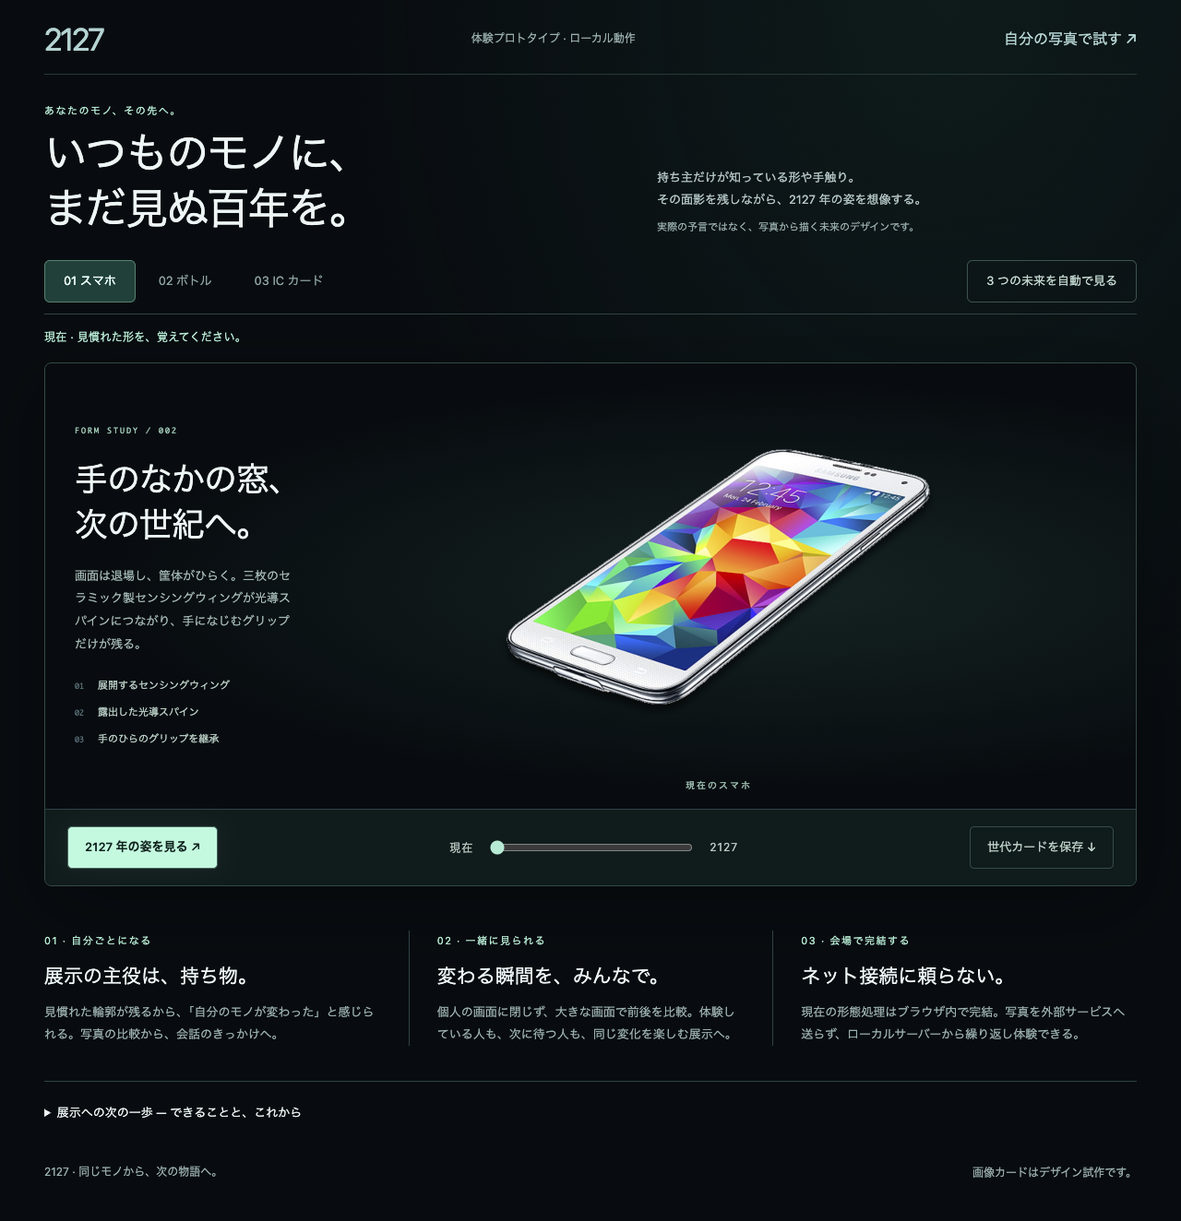
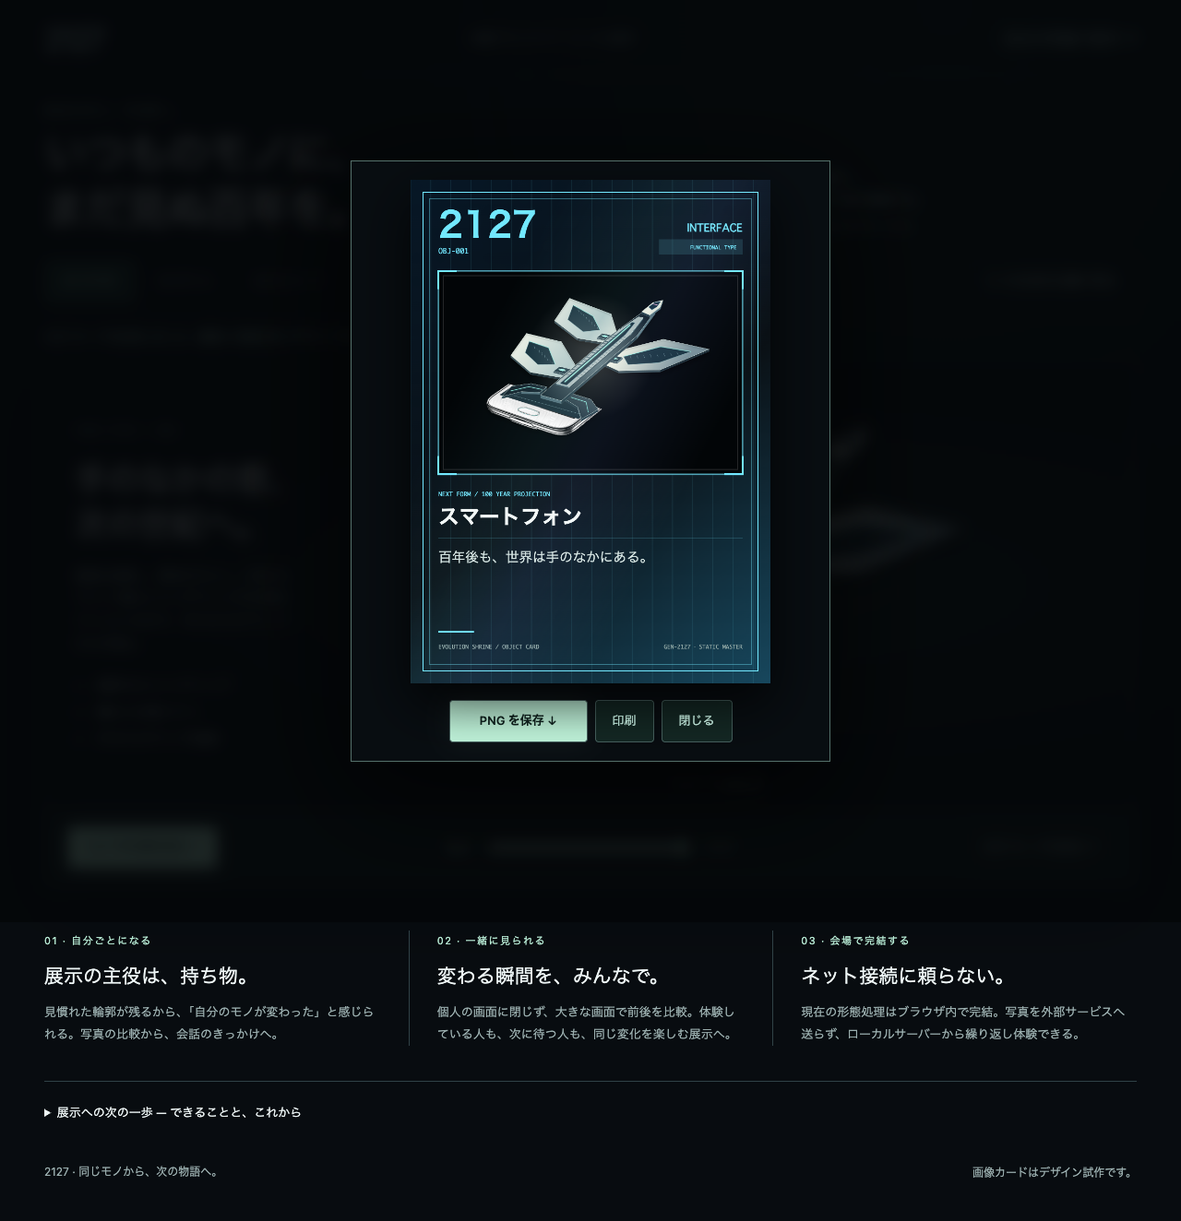
feat(card): add 2127 object card experience
- Add deterministic themed card preview, PNG export, and print layout.
- Respect reduced motion while preserving optional tilt and glare interactions.
- Extend browser coverage and update project documentation and preview evidence.

diff --git a/demo.html b/demo.html
@@ -12,13 +12,17 @@ nav{justify-content:flex-start;gap:4px;border-bottom:1px solid #304247;padding:0
 .stage{border-radius:8px;box-shadow:0 24px 80px #0004;border-color:#344a43}.bar{background:#101b1b;padding:18px 24px;gap:22px}.bar button{border-radius:5px}.primary{font-weight:600;box-shadow:0 0 28px #c4f9df10}#card{background:transparent;border-color:#354c45;color:#bdd0c7}.compare{flex:1;justify-content:center;gap:18px;color:#b7c7c0;letter-spacing:1px}.compare input{width:220px;height:24px;margin:0;cursor:ew-resize}.cards{gap:0;padding:48px 0 38px}.cards article{border-top:0;padding:0 30px;border-left:1px solid #304247}.cards article:first-child{padding-left:0;border-left:0}.cards article:last-child{padding-right:0}.cards h2{font-size:21px;margin:15px 0 10px}.cards p{font-size:13px;margin:0;line-height:1.9}details{font-size:13px}footer{display:flex;justify-content:space-between;gap:16px}
 @media(max-width:760px){main{padding:18px}header{gap:12px}.brand{font-size:30px}header>a:last-child{font-size:12px}.lead{grid-template-columns:1fr;gap:16px;padding:26px 0}.lead h1{font-size:36px}.lead p{font-size:12px}nav{gap:6px}nav button{padding:11px 13px;font-size:12px}#tour{margin:6px 0 0;width:100%;text-align:left}.status{line-height:1.7;min-height:40px}.bar{gap:16px;padding:18px}.compare{order:-1;flex-basis:100%}.bar button{flex:1;padding:13px 8px;font-size:11px}.cards{grid-template-columns:1fr;gap:24px;padding:32px 0}.cards article,.cards article:first-child,.cards article:last-child{border-left:0;border-top:1px solid #304247;padding:22px 0 0}.cards h2{font-size:21px}footer{flex-direction:column}}
 details[open] summary{margin-bottom:24px}.next-intro{max-width:820px;color:#b7c7c0}.roadmap{display:grid;grid-template-columns:repeat(2,minmax(0,1fr));gap:1px;margin:24px 0;background:#304247;border:1px solid #304247}.roadmap article{background:#0d1517;padding:24px}.roadmap h3{font-size:16px;font-weight:550;margin:8px 0 10px}.roadmap p,.roadmap li{color:#aabdbc;line-height:1.8}.roadmap ol,.roadmap ul{padding-left:20px;margin:10px 0}.flow{display:block;margin-top:12px;color:#d4fff1}.reference{display:flex;align-items:center;justify-content:space-between;gap:20px;padding:18px 20px;border:1px solid #304247;background:#101b1b}.reference p{margin:0;color:#aabdbc}.reference a{white-space:nowrap}@media(max-width:760px){.roadmap{grid-template-columns:1fr}.roadmap article{padding:20px}.reference{align-items:flex-start;flex-direction:column}.reference a{white-space:normal}}
+.sr-only{position:absolute;width:1px;height:1px;padding:0;margin:-1px;overflow:hidden;clip:rect(0,0,0,0);white-space:nowrap;border:0}dialog{width:min(94vw,520px);max-height:96vh;padding:20px;border:1px solid #55716b;background:#080d11;color:#edf5f5;box-shadow:0 32px 120px #000b}dialog::backdrop{background:#030608dd;backdrop-filter:blur(8px)}.card-shell{--rx:0deg;--ry:0deg;--gx:50%;--gy:35%;--foil-a:#9ff3e322;--foil-b:#c9a9ff33;position:relative;width:min(100%,390px);margin:auto;transform:perspective(1000px) rotateX(var(--rx)) rotateY(var(--ry));transform-style:preserve-3d;transition:transform .2s ease;touch-action:pan-y}.card-shell canvas{display:block;width:100%;height:auto;aspect-ratio:5/7;box-shadow:0 22px 55px #000b}.card-glare{position:absolute;inset:0;pointer-events:none;mix-blend-mode:screen;opacity:.34;background:radial-gradient(circle at var(--gx) var(--gy),#fff9 0,transparent 17%),linear-gradient(118deg,transparent 25%,var(--foil-a) 43%,var(--foil-b) 52%,transparent 70%)}.card-actions{display:flex;gap:8px;justify-content:center;margin-top:18px}.card-actions button{border-radius:4px}.card-actions .primary{min-width:150px}@media(max-width:520px){dialog{width:100vw;max-width:none;margin:auto 0 0;padding:14px}.card-actions{flex-wrap:wrap}.card-actions button{flex:1;padding:12px 8px}}
+@media(prefers-reduced-motion:reduce){.card-shell{transform:none!important;transition:none}.card-glare{opacity:.18;background:linear-gradient(118deg,transparent 30%,var(--foil-a) 50%,var(--foil-b) 58%,transparent 70%)}}
+@media print{@page{size:63mm 88mm;margin:0}body *{visibility:hidden!important}#card-preview,#card-preview *{visibility:visible!important}#card-preview{display:block;position:fixed;inset:0;width:63mm;height:88mm;max-height:none;margin:0;padding:0;border:0;background:#000;box-shadow:none}.card-shell{width:63mm;height:88mm;transform:none!important}.card-shell canvas{width:63mm;height:88mm;box-shadow:none}.card-glare,.card-actions{display:none!important}}
 </style>
 <main>
 <header><a class="brand" href="demo.html">2127</a><span class="small">体験プロトタイプ · ローカル動作</span><a href="studies.html?object=banana">自分の写真で試す ↗</a></header>
 <section class="lead"><div><span class="tag">あなたのモノ、その先へ。</span><h1>いつものモノに、<br>まだ見ぬ百年を。</h1></div><p>持ち主だけが知っている形や手触り。<br>その面影を残しながら、2127 年の姿を想像する。<br><span class="small">実際の予言ではなく、写真から描く未来のデザインです。</span></p></section>
 <nav aria-label="体験するモノ"><button data-scene="0" aria-pressed="true">01 スマホ</button><button data-scene="1" aria-pressed="false">02 ボトル</button><button data-scene="2" aria-pressed="false">03 IC カード</button><button id="tour">3 つの未来を自動で見る</button></nav>
 <p class="status" id="status" role="status">写真を準備しています…</p>
-<section class="stage" aria-label="未来の形態"><iframe id="scene" title="写真から描く 2127 形態"></iframe><div class="bar"><button id="reveal" class="primary" disabled>2127 年の姿を見る ↗</button><label class="compare">現在 <input id="compare" type="range" min="0" max="100" value="0" aria-label="現在と未来の比較" disabled> 2127</label><button id="card" disabled>世代カードを保存 ↓</button></div></section>
+<section class="stage" aria-label="未来の形態"><iframe id="scene" title="写真から描く 2127 形態"></iframe><div class="bar"><button id="reveal" class="primary" disabled>2127 年の姿を見る ↗</button><label class="compare">現在 <input id="compare" type="range" min="0" max="100" value="0" aria-label="現在と未来の比較" disabled> 2127</label><button id="card" disabled>2127 カードを見る ↗</button></div></section>
+<dialog id="card-preview" aria-labelledby="card-title" aria-describedby="card-summary"><h2 id="card-title" class="sr-only">2127 オブジェクトカード</h2><p id="card-summary" class="sr-only"></p><div class="card-shell"><canvas id="generation-card" width="750" height="1050"></canvas><div class="card-glare" aria-hidden="true"></div></div><div class="card-actions"><button id="card-save" class="primary">PNG を保存 ↓</button><button id="card-print">印刷</button><button id="card-close">閉じる</button></div></dialog>
 <section class="cards" aria-label="展示で生まれる体験">
 <article><span class="tag">01 · 自分ごとになる</span><h2>展示の主役は、持ち物。</h2><p>見慣れた輪郭が残るから、「自分のモノが変わった」と感じられる。写真の比較から、会話のきっかけへ。</p></article>
 <article><span class="tag">02 · 一緒に見られる</span><h2>変わる瞬間を、みんなで。</h2><p>個人の画面に閉じず、大きな画面で前後を比較。体験している人も、次に待つ人も、同じ変化を楽しむ展示へ。</p></article>
@@ -39,8 +43,18 @@ details[open] summary{margin-bottom:24px}.next-intro{max-width:820px;color:#b7c7
 <footer>2127 · 同じモノから、次の物語へ。 <span class="small">画像カードはデザイン試作です。</span></footer>
 </main>
 <script>
-const scenes=['phone.html','studies.html?object=bottle-b','studies.html?object=suica'];
-const frame=document.querySelector('#scene'), status=document.querySelector('#status'), compare=document.querySelector('#compare'), reveal=document.querySelector('#reveal'), card=document.querySelector('#card'), tour=document.querySelector('#tour');
+const scenes=[
+ {url:'phone.html',name:'スマートフォン',type:'INTERFACE',code:'OBJ-001'},
+ {url:'studies.html?object=bottle-b',name:'ステンレスボトル',type:'VESSEL',code:'OBJ-002'},
+ {url:'studies.html?object=suica',name:'IC カード',type:'ACCESS',code:'OBJ-003'}
+];
+const themes={
+ INTERFACE:{accent:'#72e8ff',deep:'#071726',soft:'#17475d',pattern:'grid',foilA:'#72e8ff33',foilB:'#7698ff44'},
+ VESSEL:{accent:'#9adfd6',deep:'#09191d',soft:'#31535a',pattern:'rings',foilA:'#9adfd633',foilB:'#f4d99544'},
+ ACCESS:{accent:'#9ce5b7',deep:'#071a13',soft:'#244f3a',pattern:'routes',foilA:'#9ce5b733',foilB:'#ffd36a44'},
+ UNKNOWN:{accent:'#b8c7ca',deep:'#111518',soft:'#344146',pattern:'measure',foilA:'#b8c7ca33',foilB:'#ffffff33'}
+};
+const frame=document.querySelector('#scene'), status=document.querySelector('#status'), compare=document.querySelector('#compare'), reveal=document.querySelector('#reveal'), card=document.querySelector('#card'), tour=document.querySelector('#tour'), preview=document.querySelector('#card-preview'), cardCanvas=document.querySelector('#generation-card'), shell=document.querySelector('.card-shell');
 let selected=0, revision=0, timer, touring=false, resize;
 function stop(){clearTimeout(timer);touring=false;tour.textContent='3 つの未来を自動で見る';}
 function setAmount(value){const el=frame.contentDocument.querySelector('#evolution');el.value=value;el.dispatchEvent(new frame.contentWindow.Event('input'));compare.value=value;}
@@ -48,12 +62,12 @@ function showFuture(){setAmount(100);frame.contentDocument.querySelector('#repla
 async function select(index){
  resize?.disconnect();selected=index;const version=++revision;clearTimeout(timer);reveal.disabled=compare.disabled=card.disabled=true;status.textContent='写真を準備しています…';
  document.querySelectorAll('[data-scene]').forEach(b=>b.setAttribute('aria-pressed',String(+b.dataset.scene===index)));
- frame.src=scenes[index];
+ frame.src=scenes[index].url;
  // ponytail: same-origin pages are the renderer; keep their controls and art as the single source of truth.
  for(let tries=0;tries<150;tries++){
   await new Promise(r=>setTimeout(r,100));if(version!==revision)return;
   const doc=frame.contentDocument;
-  if(!doc||!doc.location.href.endsWith(scenes[index])||!doc.querySelector('#evolution')||doc.querySelector('#evolution').disabled)continue;
+  if(!doc||!doc.location.href.endsWith(scenes[index].url)||!doc.querySelector('#evolution')||doc.querySelector('#evolution').disabled)continue;
   const style=doc.createElement('style');style.textContent='header,footer,.controls,.calibration,#checks{display:none!important}main{padding:12px 32px;max-width:none}.hero{min-height:400px;grid-template-columns:250px minmax(0,1fr);gap:28px}.hero figure{max-width:660px;width:100%;justify-self:center}body{min-height:0;background:radial-gradient(ellipse at 67% 50%,#20373188,transparent 65%)}h1{font-size:36px;line-height:1.35;letter-spacing:-1px}.intro{font-size:13px;color:#a4b8b5}.specs{margin-top:24px;color:#b9cdc4;gap:12px}.eyebrow{color:#9fc8b6;letter-spacing:2px}figcaption{font-size:10px;padding-bottom:8px;color:#98b7aa}@media(max-width:800px){main{padding:12px 20px}.hero{min-height:0;grid-template-columns:1fr;gap:0}.hero figure{margin:8px 0 0;grid-row:1}.copy{padding:0 0 18px}h1{font-size:26px;margin:12px 0}.intro{max-width:none;font-size:12px;margin:0}.specs{display:none}.eyebrow{font-size:9px}}';doc.head.append(style);
   resize=new ResizeObserver(()=>{frame.style.height=Math.ceil(doc.querySelector('.hero').getBoundingClientRect().height+24)+'px';});resize.observe(doc.querySelector('.hero'));
   setAmount(0);reveal.disabled=compare.disabled=card.disabled=false;status.textContent='現在 · 見慣れた形を、覚えてください。';
@@ -66,10 +80,27 @@ document.querySelectorAll('[data-scene]').forEach(b=>b.onclick=()=>{stop();selec
 reveal.onclick=()=>{stop();showFuture();};compare.oninput=()=>{stop();setAmount(compare.value);};
 tour.onclick=()=>{if(touring){stop();return;}document.querySelector('.stage').scrollIntoView({block:'start'});touring=true;tour.textContent='自動再生を止める';select(0);};
 document.addEventListener('visibilitychange',()=>{if(document.hidden)stop();});
-card.onclick=()=>{
- stop();setAmount(100);const doc=frame.contentDocument,c=document.createElement('canvas');c.width=1456;c.height=1260;const g=c.getContext('2d');g.fillStyle='#080c10';g.fillRect(0,0,c.width,c.height);g.fillStyle='#b7ead4';g.font='28px sans-serif';g.fillText('2127 — あなたのモノ、その先へ。',70,75);g.drawImage(doc.querySelector('#view'),0,120);g.font='32px sans-serif';g.fillText(doc.querySelector('.kept').textContent,70,1140);g.fillStyle='#9bafaf';g.font='20px sans-serif';g.fillText('写真から描く未来のデザイン · 2.5D コンセプト / 世代カード試作',70,1200);
- const a=document.createElement('a');a.download='2127-generation-'+(selected+1)+'.png';a.href=c.toDataURL();a.click();status.textContent='世代カードの画像を保存しました。実体プリンター接続は今後の予定です。';
-};
+function line(g,x,y,w,text,size=29,leading=39){g.font=`500 ${size}px sans-serif`;const words=[...text],lines=[];let row='';for(const ch of words){if(g.measureText(row+ch).width>w){lines.push(row);row=ch}else row+=ch;}if(row)lines.push(row);lines.slice(0,3).forEach((s,i)=>g.fillText(s,x,y+i*leading));}
+function pattern(g,theme){g.save();g.strokeStyle=theme.accent+'28';g.fillStyle=theme.accent+'44';g.lineWidth=1;
+ if(theme.pattern==='grid')for(let x=0;x<750;x+=42){g.beginPath();g.moveTo(x,0);g.lineTo(x,1050);g.stroke();}
+ if(theme.pattern==='rings')for(let r=90;r<660;r+=75){g.beginPath();g.arc(610,300,r,0,Math.PI*2);g.stroke();}
+ if(theme.pattern==='routes')for(let i=0;i<7;i++){const y=150+i*118;g.beginPath();g.moveTo(0,y);g.lineTo(160,y);g.lineTo(225,y+42);g.lineTo(750,y+42);g.stroke();g.beginPath();g.arc(225,y+42,4,0,7);g.fill();}
+ if(theme.pattern==='measure')for(let y=80;y<1000;y+=80){g.beginPath();g.moveTo(28,y);g.lineTo(52,y);g.stroke();}g.restore();}
+function frameMotif(g,theme){g.save();g.strokeStyle=theme.accent;g.fillStyle=theme.accent;g.lineWidth=4;
+ if(theme.pattern==='grid')for(const [x,y,sx,sy] of [[58,190,1,1],[692,190,-1,1],[58,614,1,-1],[692,614,-1,-1]]){g.beginPath();g.moveTo(x,y+sy*38);g.lineTo(x,y);g.lineTo(x+sx*38,y);g.stroke();}
+ if(theme.pattern==='rings')for(const [x,y] of [[82,214],[668,214],[82,590],[668,590]]){g.beginPath();g.arc(x,y,12,0,7);g.stroke();g.beginPath();g.arc(x,y,3,0,7);g.fill();}
+ if(theme.pattern==='routes'){g.beginPath();g.moveTo(58,226);g.lineTo(94,190);g.lineTo(132,190);g.moveTo(618,614);g.lineTo(656,614);g.lineTo(692,576);g.stroke();for(const [x,y] of [[94,190],[656,614]]){g.beginPath();g.arc(x,y,5,0,7);g.fill();}}
+ g.restore();}
+function renderGenerationCard(){const meta=scenes[selected],theme=themes[meta.type]||themes.UNKNOWN,doc=frame.contentDocument,art=doc.querySelector('#view'),kept=doc.querySelector('.kept').textContent.trim(),g=cardCanvas.getContext('2d');g.clearRect(0,0,750,1050);const bg=g.createLinearGradient(0,0,750,1050);bg.addColorStop(0,theme.deep);bg.addColorStop(.55,'#0a1015');bg.addColorStop(1,theme.soft);g.fillStyle=bg;g.fillRect(0,0,750,1050);pattern(g,theme);
+ g.strokeStyle=theme.accent;g.lineWidth=2;g.strokeRect(26,26,698,998);g.strokeStyle=theme.accent+'66';g.strokeRect(39,39,672,972);g.fillStyle=theme.accent;g.font='700 72px sans-serif';g.fillText('2127',58,120);g.font='500 18px monospace';g.fillText(meta.code,58,154);g.textAlign='right';g.font='600 22px monospace';g.fillText(meta.type,692,108);g.fillStyle=theme.accent+'22';g.fillRect(518,124,174,32);g.fillStyle=theme.accent;g.font='500 13px monospace';g.fillText('FUNCTIONAL TYPE',680,145);g.textAlign='left';
+ g.fillStyle='#020507';g.fillRect(58,190,634,424);g.drawImage(art,0,0,art.width,art.height,64,196,622,414);g.strokeStyle=theme.accent+'aa';g.lineWidth=3;g.strokeRect(58,190,634,424);g.strokeStyle='#ffffff44';g.lineWidth=1;g.strokeRect(68,200,614,404);frameMotif(g,theme);
+ g.fillStyle=theme.accent;g.font='500 15px monospace';g.fillText('NEXT FORM / 100 YEAR PROJECTION',58,660);g.fillStyle='#f2f7f6';g.font='600 43px sans-serif';g.fillText(meta.name,58,718);g.strokeStyle=theme.accent+'55';g.beginPath();g.moveTo(58,747);g.lineTo(692,747);g.stroke();g.fillStyle='#d5e4e1';line(g,58,797,625,kept,28,39);
+ g.fillStyle=theme.accent;g.fillRect(58,941,74,3);g.fillStyle='#93aaa7';g.font='500 14px monospace';g.fillText('EVOLUTION SHRINE / OBJECT CARD',58,978);g.textAlign='right';g.fillText('GEN-2127 · STATIC MASTER',692,978);g.textAlign='left';cardCanvas.dataset.theme=meta.type;shell.style.setProperty('--foil-a',theme.foilA);shell.style.setProperty('--foil-b',theme.foilB);document.querySelector('#card-summary').textContent=`${meta.name}、${meta.type}。${kept}`;return meta;}
+card.onclick=()=>{stop();setAmount(100);renderGenerationCard();preview.showModal();status.textContent='2127 カードを生成しました。画面と印刷は同じデザインです。';};
+document.querySelector('#card-save').onclick=()=>{const meta=scenes[selected],a=document.createElement('a');a.download=`2127-${meta.code.toLowerCase()}.png`;a.href=cardCanvas.toDataURL();a.click();status.textContent='2127 カードの PNG を保存しました。';};
+document.querySelector('#card-print').onclick=()=>print();document.querySelector('#card-close').onclick=()=>preview.close();
+shell.onpointermove=e=>{if(matchMedia('(prefers-reduced-motion: reduce)').matches)return;const r=shell.getBoundingClientRect(),x=(e.clientX-r.left)/r.width,y=(e.clientY-r.top)/r.height;shell.style.setProperty('--ry',(x-.5)*11+'deg');shell.style.setProperty('--rx',(y-.5)*-11+'deg');shell.style.setProperty('--gx',x*100+'%');shell.style.setProperty('--gy',y*100+'%');};
+shell.onpointerleave=()=>{shell.style.setProperty('--rx','0deg');shell.style.setProperty('--ry','0deg');shell.style.setProperty('--gx','50%');shell.style.setProperty('--gy','35%');};
 select(0);
 </script>
 </html>

diff --git a/DEMO.md b/DEMO.md
@@ -7,7 +7,7 @@
 
 1. **先體驗（約 45 秒）**：按「3 つの未来を自動で見る」。手機、鋼樽、交通卡逐一由原物件轉到 2127；每件先留 2.5 秒看原形，再看 7 秒未來。強調唔係加濾鏡：保留握座／瓶蓋／卡面，同時改變實體結構。可隨時停止、用滑桿比較。
 2. **講展場價值（約 45 秒）**：觀眾自己帶入內容，有個人關係；形變可放大讓旁觀者一齊睇；運算本地完成，不靠場地網絡。呢啲係設計優勢，吸引力／人流仍要實地測試。
-3. **留下結果（約 20 秒）**：按「世代カードを保存」，展示 PNG 與保留原物件意義的一句話。今次真係可以下載圖片；實體出卡未接 printer。
+3. **留下結果（約 20 秒）**：按「2127 カードを見る」，展示直向 Object Card；輕微移動滑鼠會見到 tilt／glare。按「PNG を保存」下載同一張 750×1050 靜態卡，或者用 browser print 以 63×88mm 輸出；實體出卡未接 printer。
 4. **證明有 pipeline（約 40 秒）**：右上「自分の写真で試す」，拖香蕉相／簡單背景單物件相。新相預設輪廓／顏色驅動嘅通用配方；專屬配方人手選，唔係 AI 自動認物。失敗後按「この写真を分離ラボで修正」，同一張相直接帶入 lab 調整，唔使重選檔案。
 5. **收結（約 30 秒）**：打開「展示への次の一歩」。重點唔係預畫晒所有模型，而係將本地量到嘅輪廓交畀 renderer，再由 Gemini 回傳物件功能、保留／移除部位、附加結構、位置、色彩同信心度。識得就用專屬配方；唔肯定就用通用骨架；去背都唔穩就請觀眾修正或重拍。
 6. **實體展望（約 20 秒）**：用參考影片解釋 Pepper’s Ghost：黑底明亮影像反射到透明板，看起來浮喺箱內，唔係真正空中投影。之後先接固定攝影箱、照明、透明板、打印同約 60 秒循環。

diff --git a/memory-bank/20-status.md b/memory-bank/20-status.md
@@ -1,6 +1,6 @@
 # 20 · 現況
 
-最後整理：2026-09-09
+最後整理：2026-09-10
 
 ## 一句總結
 
@@ -10,7 +10,10 @@
 
 ### 展示及互動
 
-- `demo.html`：手機、保溫樽、交通卡三物件展示；支援自動導覽、手動前後比較及 PNG 世代卡。
+- `demo.html`：手機、保溫樽、交通卡三物件展示；支援自動導覽、手動前後比較及 2127 Object Card。
+- Object Card 係同一張 750×1050 直向 canvas：畫面預覽有輕微 tilt／glare，PNG 同
+  63×88mm browser print 使用同一個 neutral static design。三個 authored scene 分別用
+  `INTERFACE`／`VESSEL`／`ACCESS` 功能主題，各自主導底紋、角位構件同 foil 色；未知物件唔會被假裝自動分類。
 - 所有觀眾可見 UI 已改為日文；文案守住「向前推一百年」主旨。
 - 手機版 390px 版面、reduced-motion、重播及頁面隱藏停止動畫已有處理。
 
@@ -56,7 +59,7 @@
 ### 驗證
 
 - 139 項頁內自我檢查：legacy 67、Lab 12、茶瓶 11、保溫樽 13、闊身容器 10、通用 10、交通卡 7、手機 9。
-- `tests/browser.cjs` 覆蓋真實 UI 操作、輸出檔案、快速換相、失敗恢復、配方切換、校準、baseline restoration 同 390px 版面。
+- `tests/browser.cjs` 覆蓋真實 UI 操作、輸出檔案、快速換相、失敗恢復、配方切換、校準、baseline restoration、三種卡片 metadata／theme、750×1050 PNG、63×88mm print、deterministic reopen、reduced-motion 同 390px 版面。
 - 最新證據及限制見 [`../previews/input-tests/README.md`](../previews/input-tests/README.md)，重跑方法見 [`../tests/README.md`](../tests/README.md)。
 
 ## 未完成

diff --git a/tests/README.md b/tests/README.md
@@ -27,6 +27,8 @@ PLAYWRIGHT_MODULE=/Users/fatboy/.cache/codex-runtimes/codex-primary-runtime/depe
 
 Coverage includes the generic fallback on three out-of-class photos, the wrong-recipe rejection on the cup study, opt-in enclosed-region cleanup, reversible reset, PNG download/alpha round-trip, invalid inputs, rapid sample switching, unsupported-mask recovery, both prepared-mask bottle recipes, calibrated phone/card uploads, local card corner proposals, curved-outline rejection, baseline restoration and 390px layout. Calibration uses translated/padded fixture photos, not new physical objects. Quantitative geometry checks do not establish arbitrary-photo recognition, artistic quality or exhibition reliability.
 
-展示入口亦覆蓋三物件切換、前後比較、PNG 世代卡下載、完整單輪導覽及 390px 版面。
+展示入口亦覆蓋三物件切換、前後比較、2127 Object Card preview、三種功能主題、
+750×1050 PNG、63×88mm print CSS、重開結果一致、一般 motion tilt／glare／leave reset、reduced-motion 停用 transform、完整單輪導覽及
+390px card overlay／頁面無橫向溢出。
 
 大相片回歸：3720×1932 輸入縮至 1200×623 分析，演化及重新選配方可用。

diff --git a/memory-bank/10-architecture.md b/memory-bank/10-architecture.md
@@ -46,6 +46,23 @@ unclip → stroke 卡面幼邊框
 `mix` 係比較滑桿。舞台唔跟 `mix` 走（背景一直喺度），
 其餘三層跟住演化形態一齊淡入。
 
+## `demo.html` 2127 Object Card（2026-09-10）
+
+展示頁唔再直接將 `#view` 包成橫向下載圖。三個 scene 用 authored metadata
+（URL、日文名、功能 type、穩定 code），同頁 `renderGenerationCard()` 將 iframe 嘅
+`#view` 同 `.kept` 畫成唯一一張 750×1050 直向 canvas：
+
+```
+scene metadata ─┐
+iframe #view ───┼─▶ renderGenerationCard() ─▶ preview canvas ─▶ PNG
+iframe .kept ───┘                              └──────────────▶ 63×88mm print
+                                                     └───────▶ CSS tilt / glare（只限 screen）
+```
+
+canvas 係 preview、PNG 同 print 嘅單一設計來源；pointer tilt／glare 只喺 canvas 外層，
+唔會寫入輸出。功能 type 只係三個已 authored scene 嘅展示 metadata，唔係物件辨識；
+未知輸入仍然要用 `UNKNOWN`，直至真係有語意分類。
+
 ### 材質工具（`tube()` 下面嗰組）
 
 | 符號 | 做乜 |
